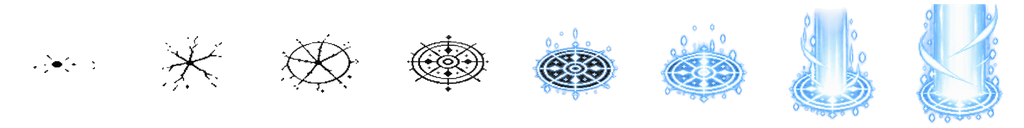
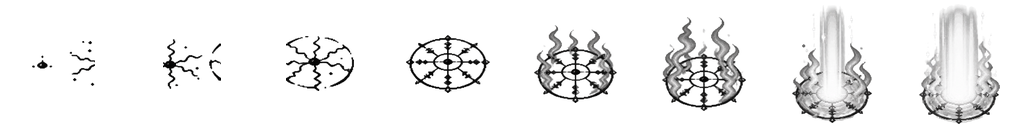
feat(arte): sellos de manos y marca en tinta negra para el Summon
Las hojas 81-82: la ceremonia abre ahora con los sellos de manos del
Kuchiyose y la marca de invocación es de tinta negra, con un contorno
claro para despegarla del fondo sin darle color.

diff --git a/src/components/Summon/CeremoniaInvocacion.jsx b/src/components/Summon/CeremoniaInvocacion.jsx
@@ -158,9 +158,9 @@ export default function CeremoniaInvocacion({ premios, spriteDePremio, nombreDeP
       )}
 
       {fase === 'sello' && (sello ? (
-        // En tinta, sin color: `grayscale` quita el azul de la tira de la hoja 72 hasta que
-        // llegue la versión en tinta negra (hoja 82).
-        <div className="absolute left-1/2 bottom-24" style={{ filter: 'grayscale(1) brightness(0.8)' }}>
+        // La marca es de tinta negra (hoja 82): un contorno claro la despega del fondo
+        // oscuro sin darle color, que destriparía la rareza.
+        <div className="absolute left-1/2 bottom-24" style={{ filter: 'drop-shadow(0 0 2px rgba(232, 226, 208, 0.75)) drop-shadow(0 0 6px rgba(232, 226, 208, 0.3))' }}>
           <Tira animacion={sello} escala={2} duracion={MS_SELLO * factor} />
         </div>
       ) : (

diff --git a/documentacion/41-arte-estilo-nuevo.md b/documentacion/41-arte-estilo-nuevo.md
@@ -1135,7 +1135,7 @@ Left to right:
 
 ## Tanda 13 — la ceremonia del Summon, versión 2 (hojas 81-82)
 
-⏳ **PENDIENTES.** Del playtest del 2026-10-16. La 81 añade una fase al principio de la ceremonia (los sellos de
+✅ **HECHAS el 2026-10-16.** Del playtest del 2026-10-16. La 81 añade una fase al principio de la ceremonia (los sellos de
 manos del Kuchiyose) y la 82 **sustituye** a la marca de la hoja 72: la quiere en **tinta negra, sin color**,
 para que no destripe la rareza de lo que va a salir. El código ya está: la fase de manos solo aparece si existe
 su dibujo, y la 82 pisa el fichero de la 72 al correr el script. Bloque de **tiras de animación**; adjuntar de
